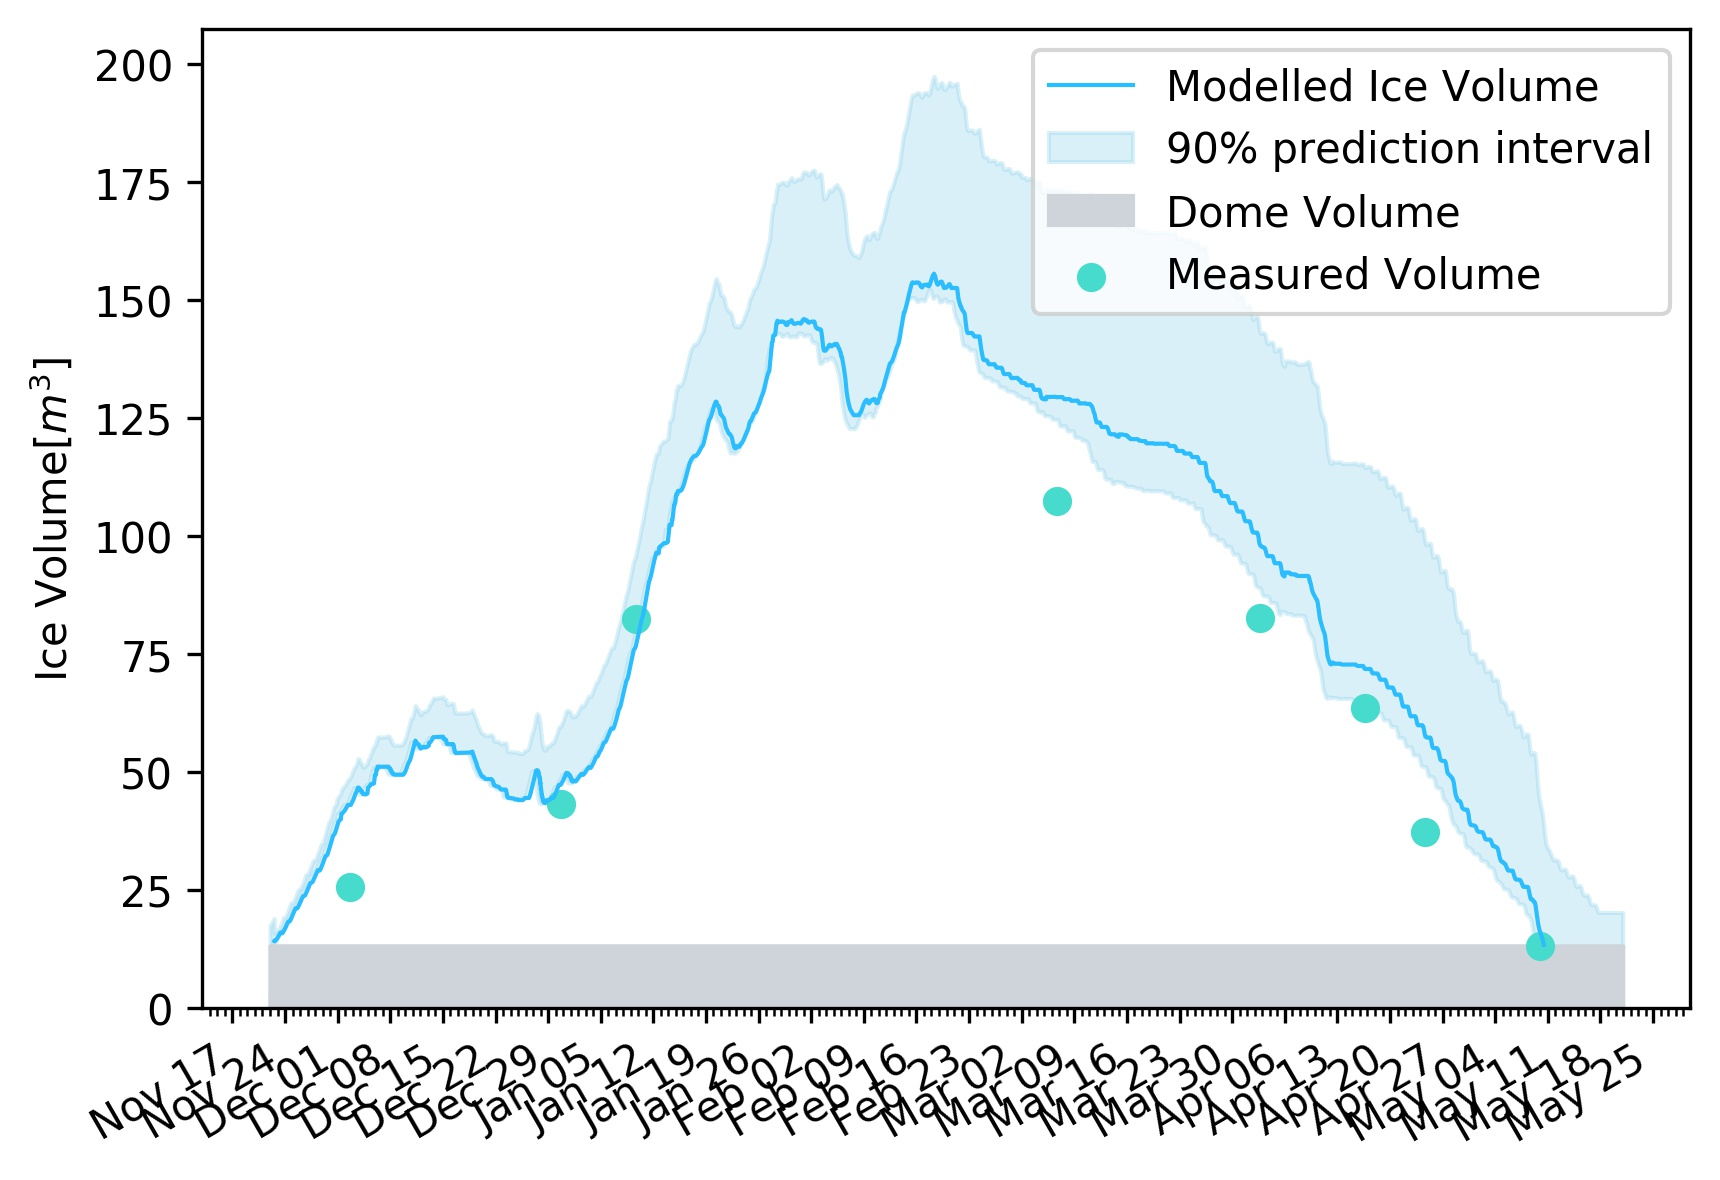
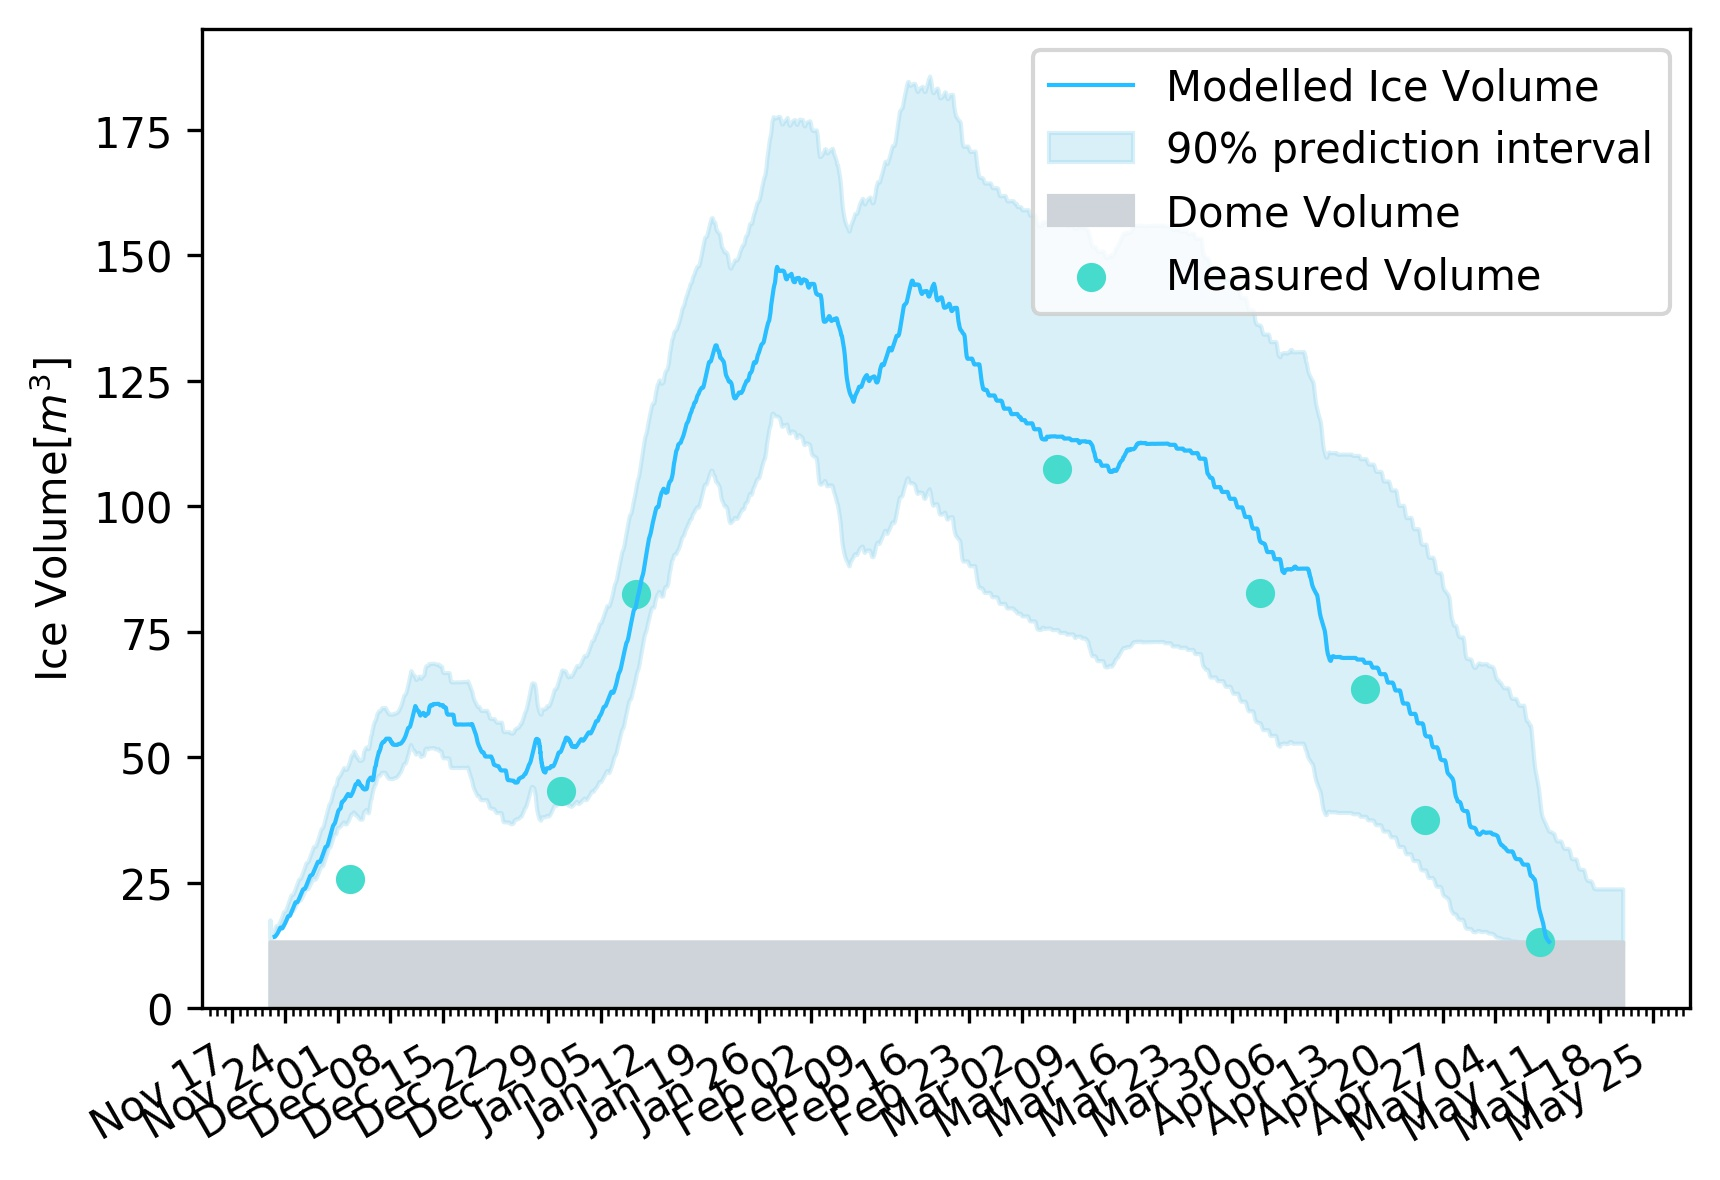
Uncertainty figures produce

diff --git a/src/features/uq_plot.py b/src/features/uq_plot.py
@@ -18,13 +18,21 @@ from src.models.icestupaClass import Icestupa
 import matplotlib.dates as mdates
 
 if __name__ == "__main__":
-    answers = dict(
-        location="Guttannen 2021",
-    )
+
+    location = "gangles21"
+
+    if location == "guttannen21":
+        total_days = 180
+    if location == "schwarzsee19":
+        total_days = 60
+    if location == "guttannen20":
+        total_days = 110
+    if location == "gangles21":
+        total_days = 150
 
     # Get settings for given location and trigger
-    SITE, FOLDER = config("guttannen21")
-    icestupa = Icestupa("guttannen21")
+    SITE, FOLDER = config(location)
+    icestupa = Icestupa(location)
     icestupa.read_output()
     icestupa.self_attributes()
 
@@ -41,11 +49,11 @@ if __name__ == "__main__":
     data.load(filename1)
     days = pd.date_range(
         start=SITE["start_date"],
-        end=SITE["start_date"]+ timedelta(hours=180 * 24 - 1),
+        end=SITE["start_date"]+ timedelta(hours=total_days * 24 - 1),
         freq="1H",
     )
 
-    data = data["guttannen21"]
+    data = data[location]
 
     data["When"] = days
 
